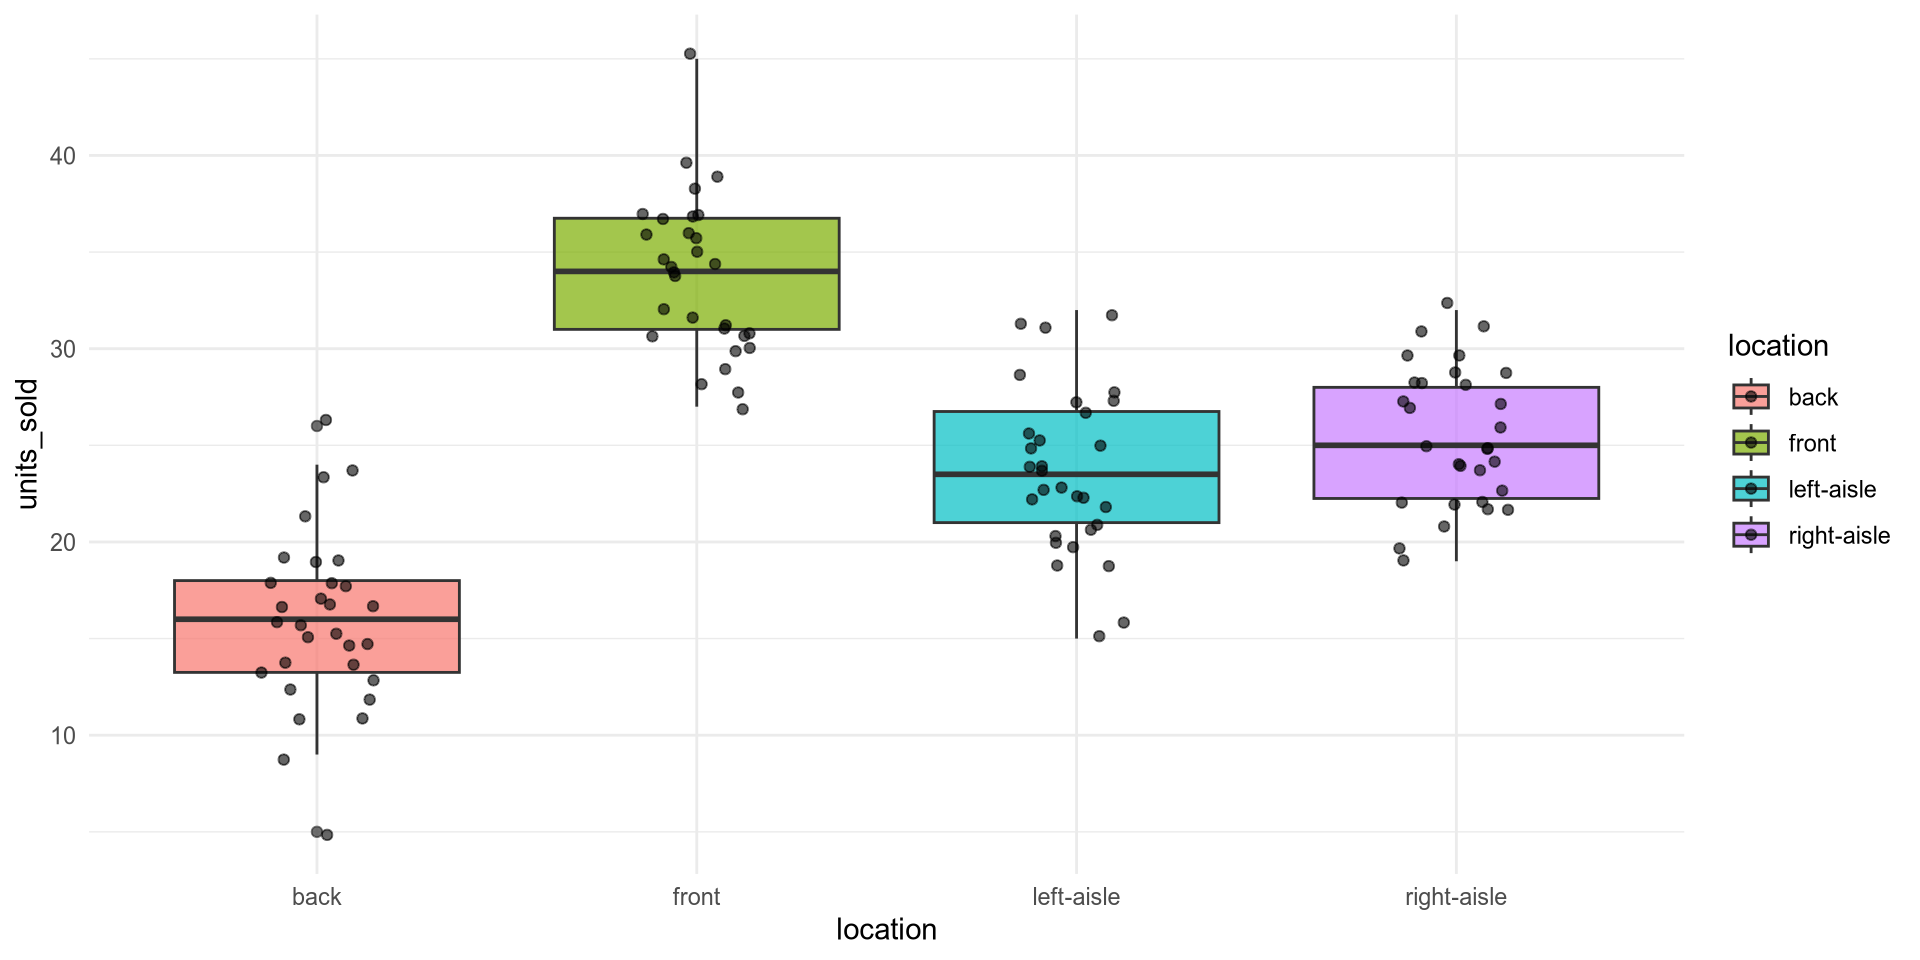
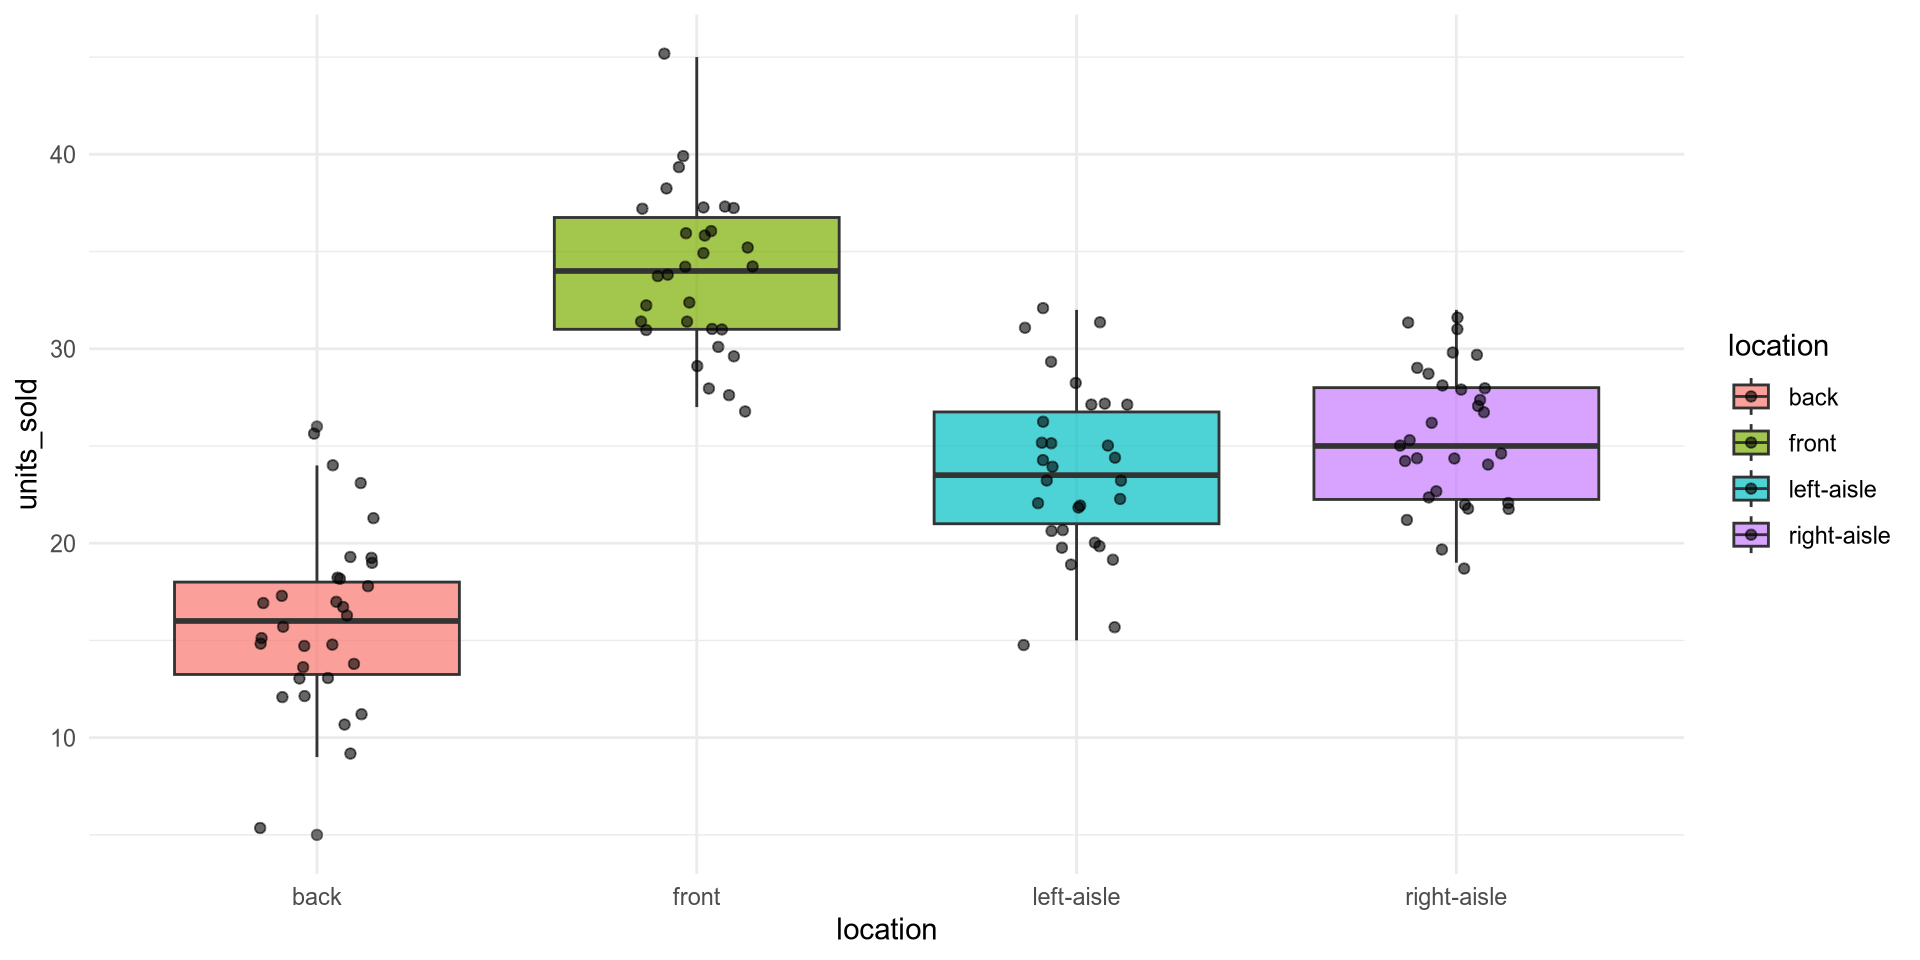
Add the dataset URLs to the ANOVA & correlation exercise page
Now that the four CSVs are on GitHub, each dataset section links its raw URL so students can read.csv() it directly.

diff --git a/docs/exercises_anova_correlation.html b/docs/exercises_anova_correlation.html
@@ -386,6 +386,7 @@ pre > code.sourceCode > span > a:first-child::before { text-decoration: underlin
 </table>
 </div>
 </div>
+<p><strong>Data URL:</strong> <code>https://raw.githubusercontent.com/mucahitzor/IKT2010/refs/heads/main/data/world_happiness.csv</code></p>
 <ul>
 <li><strong>ANOVA:</strong> does average <code>happiness_score</code> differ across <code>region</code>s?</li>
 <li><strong>Correlation:</strong> is <code>gdp_per_capita</code> correlated with <code>happiness_score</code>? (Does money buy happiness?)</li>
@@ -557,6 +558,7 @@ pre > code.sourceCode > span > a:first-child::before { text-decoration: underlin
 </table>
 </div>
 </div>
+<p><strong>Data URL:</strong> <code>https://raw.githubusercontent.com/mucahitzor/IKT2010/refs/heads/main/data/fifa_players.csv</code></p>
 <ul>
 <li><strong>ANOVA:</strong> does <code>value_million_eur</code> differ across <code>age_group</code>s? (Do players peak in market value at a certain age?)</li>
 <li><strong>Correlation:</strong> is <code>overall</code> rating correlated with <code>value_million_eur</code>? (Does skill set the price?)</li>
@@ -702,6 +704,7 @@ pre > code.sourceCode > span > a:first-child::before { text-decoration: underlin
 </table>
 </div>
 </div>
+<p><strong>Data URL:</strong> <code>https://raw.githubusercontent.com/mucahitzor/IKT2010/refs/heads/main/data/box_office.csv</code></p>
 <ul>
 <li><strong>ANOVA:</strong> does <code>worldwide_gross_million</code> differ across <code>genre</code>s? (Do some genres earn more?)</li>
 <li><strong>Correlation:</strong> is <code>budget_million</code> correlated with <code>worldwide_gross_million</code>? (Does spending more earn more?)</li>
@@ -823,6 +826,7 @@ pre > code.sourceCode > span > a:first-child::before { text-decoration: underlin
 </table>
 </div>
 </div>
+<p><strong>Data URL:</strong> <code>https://raw.githubusercontent.com/mucahitzor/IKT2010/refs/heads/main/data/college_majors.csv</code></p>
 <ul>
 <li><strong>ANOVA:</strong> do <code>median_earnings</code> differ across <code>field</code>s of study? (Which fields pay most?)</li>
 <li><strong>Correlation:</strong> is <code>share_women</code> correlated with <code>median_earnings</code>? (Do fields with more women pay less?)</li>
